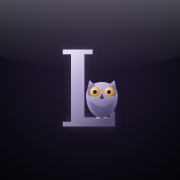
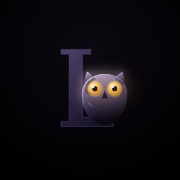
上下の帯（時計・ホームバー）に画面が重ならないようにし、アイコンを暗闇のフクロウにする (#38)
■ 画面が iPhone の帯に重なっていた問題
ホーム画面から全画面で開くようにしたのに、セーフエリア（時計・電池の帯と
下のホームバー）を避ける余白が無く、上の見出しが時計に重なっていました。

- --safe-t / --safe-b をまとめて定義し、上端に貼り付く
  ヘッダー・詳細の見出し・メニューに上ぶんの余白を足した
- 下バーは padding:0 6px が後ろの行で上書きしていたため、
  もともとの下ぶんの指定も効いていなかった。1 か所にまとめて直した
- 入力パネルと詳細の本文も、下のホームバーぶんを空けた
- iPad・PC の枠表示では枠自体が離れているので余白は足さない

■ アイコン
- 背景を黒に戻した
- フクロウを大きくし、「暗闇に潜む」見え方にした。体は下へ向かって闇に溶け、
  月明かり（左上から）のふち光と、金色に光る目だけが浮かぶ
- L は暗い紫の影として残し、フクロウがその上に止まっている

検証: --safe-t/--safe-b を実機と同じ値（上 59px・下 34px）に差し替えて、
ヘッダー・詳細・メニュー・下バー・入力パネルのどれも帯にかからないことを確認。
Safari で開いたときと iPad の枠表示では余計な余白が付かないことも確認。

Claude-Session: https://claude.ai/code/session_011yLiAuTRPF991GYKM8apWE

diff --git a/assets/app.css b/assets/app.css
@@ -10,6 +10,10 @@
     --font:-apple-system,"SF Pro Text",system-ui,"Hiragino Sans","Noto Sans JP",sans-serif;
     --serif:ui-serif,"New York",Georgia,"Hiragino Mincho ProN",serif;
     --mono:ui-monospace,"SF Mono",Menlo,monospace;
+    /* ホーム画面から全画面で開いたとき、時計・電池の帯とホームバーに
+       重ならないようにするための余白（Safari のタブがある時は 0） */
+    --safe-t:env(safe-area-inset-top,0px);
+    --safe-b:env(safe-area-inset-bottom,0px);
   }
   *{box-sizing:border-box}
   /* ダブルタップ拡大を無効化。iOS の自動テキスト拡大も止める */
@@ -28,6 +32,7 @@
   @media (min-width:520px) and (min-height:640px){
     .stage{padding:24px 16px 30px}
     .app{max-width:412px;height:min(880px,calc(100dvh - 54px));
+      --safe-t:0px;--safe-b:0px;
       border:1px solid var(--line);border-radius:34px;
       box-shadow:0 40px 120px -40px rgba(0,0,0,.9),inset 0 1px 0 var(--hi)}
   }
@@ -41,9 +46,9 @@
   @media (min-width:1024px) and (min-height:640px){ .app{max-width:820px} }
   /* 大きな外部ディスプレイ。広げすぎると1行が長くなりすぎるので上限を置く */
   @media (min-width:1400px) and (min-height:640px){ .app{max-width:960px} }
-  .bottombar{box-sizing:content-box;padding-bottom:env(safe-area-inset-bottom)}
   .sync{cursor:pointer}
-  .topbar{display:flex;align-items:center;gap:11px;padding:17px 16px 10px;flex:none}
+  .topbar{display:flex;align-items:center;gap:11px;
+    padding:calc(17px + var(--safe-t)) 16px 10px;flex:none}
   .ib{width:36px;height:36px;flex:none;display:grid;place-items:center;border:1px solid var(--line);
     border-radius:11px;background:var(--s1);color:var(--text);cursor:pointer;transition:.2s}
   .ib.on{background:var(--goldd);border-color:rgba(207,164,92,.5);color:var(--gold)}
@@ -151,7 +156,9 @@
   .act svg{width:15px;height:15px}
   .actzone{flex:none;padding:0 14px}
   .actzone:empty{display:none}
-  .bottombar{flex:none;height:58px;display:flex;align-items:center;gap:2px;padding:0 6px;
+  /* 高さ 58px は content-box で保ち、ホームバーぶんは下に足す */
+  .bottombar{flex:none;box-sizing:content-box;height:58px;display:flex;align-items:center;gap:2px;
+    padding:0 6px var(--safe-b);
     border-top:1px solid var(--line2);background:linear-gradient(180deg,#131318,#0B0B0E);position:relative;z-index:36}
   .bb{flex:1;display:flex;flex-direction:column;align-items:center;gap:3px;padding:6px 1px;border:0;
     background:none;color:var(--dim);cursor:pointer;font-family:var(--font);font-size:8.5px;border-radius:9px;line-height:1.2}
@@ -230,7 +237,8 @@
   .drawer{position:absolute;top:0;left:0;bottom:0;z-index:30;width:80%;max-width:290px;
     background:linear-gradient(180deg,#101015,#0B0B0E);border-right:1px solid var(--line2);
     box-shadow:40px 0 90px -30px rgba(0,0,0,.9);transform:translateX(-102%);
-    transition:transform .32s cubic-bezier(.22,.8,.24,1);display:flex;flex-direction:column;padding:20px 12px;overflow-y:auto}
+    transition:transform .32s cubic-bezier(.22,.8,.24,1);display:flex;flex-direction:column;
+    padding:calc(20px + var(--safe-t)) 12px 20px;overflow-y:auto}
   .app.open .drawer{transform:translateX(0)}
   .app.open .scrim{opacity:1;visibility:visible}
   .dh2{display:flex;align-items:center;gap:9px;padding:2px 8px 12px}
@@ -253,9 +261,11 @@
   .det{position:absolute;top:0;left:0;right:0;bottom:0;z-index:25;background:linear-gradient(180deg,var(--bg2),var(--bg));
     transform:translateX(100%);transition:transform .3s cubic-bezier(.22,.8,.24,1);display:flex;flex-direction:column}
   .det.show{transform:translateX(0)}
-  .db{display:flex;align-items:center;gap:11px;padding:17px 16px 12px;border-bottom:1px solid var(--line);flex:none}
+  .db{display:flex;align-items:center;gap:11px;
+    padding:calc(17px + var(--safe-t)) 16px 12px;
+    border-bottom:1px solid var(--line);flex:none}
   .db .dt{font-size:10.5px;letter-spacing:.2em;text-transform:uppercase;color:var(--dim);flex:1}
-  .dbody{flex:1;overflow-y:auto;padding:17px 16px calc(58px + env(safe-area-inset-bottom) + 28px)}
+  .dbody{flex:1;overflow-y:auto;padding:17px 16px calc(58px + var(--safe-b) + 28px)}
   .dtitle{font-size:19px;line-height:1.4;font-weight:500;margin:0 0 7px;text-wrap:balance}
   .dsub{font-size:11.5px;color:var(--dim);margin-bottom:13px;font-family:var(--mono)}
   .chips{display:flex;flex-wrap:wrap;gap:6px;margin-bottom:14px}
@@ -324,7 +334,8 @@
   .mask{position:absolute;inset:0;z-index:40;background:rgba(3,3,4,.7);display:none;align-items:flex-end}
   .mask.show{display:flex}
   .sheet{width:100%;max-height:88%;overflow-y:auto;background:linear-gradient(180deg,#15151B,#0D0D11);
-    border-top:1px solid var(--line2);border-radius:20px 20px 0 0;padding:16px 16px 26px}
+    border-top:1px solid var(--line2);border-radius:20px 20px 0 0;
+    padding:16px 16px calc(26px + var(--safe-b))}
   /* 横向きのスマホなど縦が短い画面では、入力欄が隠れないよう目一杯使う */
   @media (max-height:560px){ .sheet{max-height:96%;padding:12px 14px 18px} }
   .sheet h3{margin:0 0 3px;font-size:15px;font-weight:500}

diff --git a/index.html b/index.html
@@ -7,13 +7,13 @@
 <title>LIFE</title>
 <!-- ホーム画面に追加したときのアイコン。指定が無いと iOS が
      ページを縮小した「黒地に文字」の絵を勝手に作ってしまう -->
-<link rel="apple-touch-icon" href="assets/icon-180.png?v=dev725132">
-<link rel="icon" type="image/png" sizes="192x192" href="assets/icon-192.png?v=dev725132">
-<link rel="icon" type="image/svg+xml" href="assets/icon.svg?v=dev725132">
-<link rel="manifest" href="manifest.webmanifest?v=dev725132">
+<link rel="apple-touch-icon" href="assets/icon-180.png?v=dev725133">
+<link rel="icon" type="image/png" sizes="192x192" href="assets/icon-192.png?v=dev725133">
+<link rel="icon" type="image/svg+xml" href="assets/icon.svg?v=dev725133">
+<link rel="manifest" href="manifest.webmanifest?v=dev725133">
 <meta name="apple-mobile-web-app-title" content="LIFE">
 <meta name="apple-mobile-web-app-status-bar-style" content="black-translucent">
-<link rel="stylesheet" href="assets/app.css?v=dev725132">
+<link rel="stylesheet" href="assets/app.css?v=dev725133">
 </head>
 <body>
 <!-- 筋トレの 3D 風イラストで使う塗り（グラデーションと発光）。
@@ -115,11 +115,11 @@
     <div class="mask" id="mask"><div class="sheet" id="sheet"></div></div>
   </div>
 </div>
-<script src="assets/github.js?v=dev725132"></script>
-<script src="assets/places.js?v=dev725132"></script>
-<script src="assets/nearby.js?v=dev725132"></script>
-<script src="assets/workout.js?v=dev725132"></script>
-<script src="assets/demo-data.js?v=dev725132"></script>
-<script src="assets/app.js?v=dev725132"></script>
+<script src="assets/github.js?v=dev725133"></script>
+<script src="assets/places.js?v=dev725133"></script>
+<script src="assets/nearby.js?v=dev725133"></script>
+<script src="assets/workout.js?v=dev725133"></script>
+<script src="assets/demo-data.js?v=dev725133"></script>
+<script src="assets/app.js?v=dev725133"></script>
 </body>
 </html>
